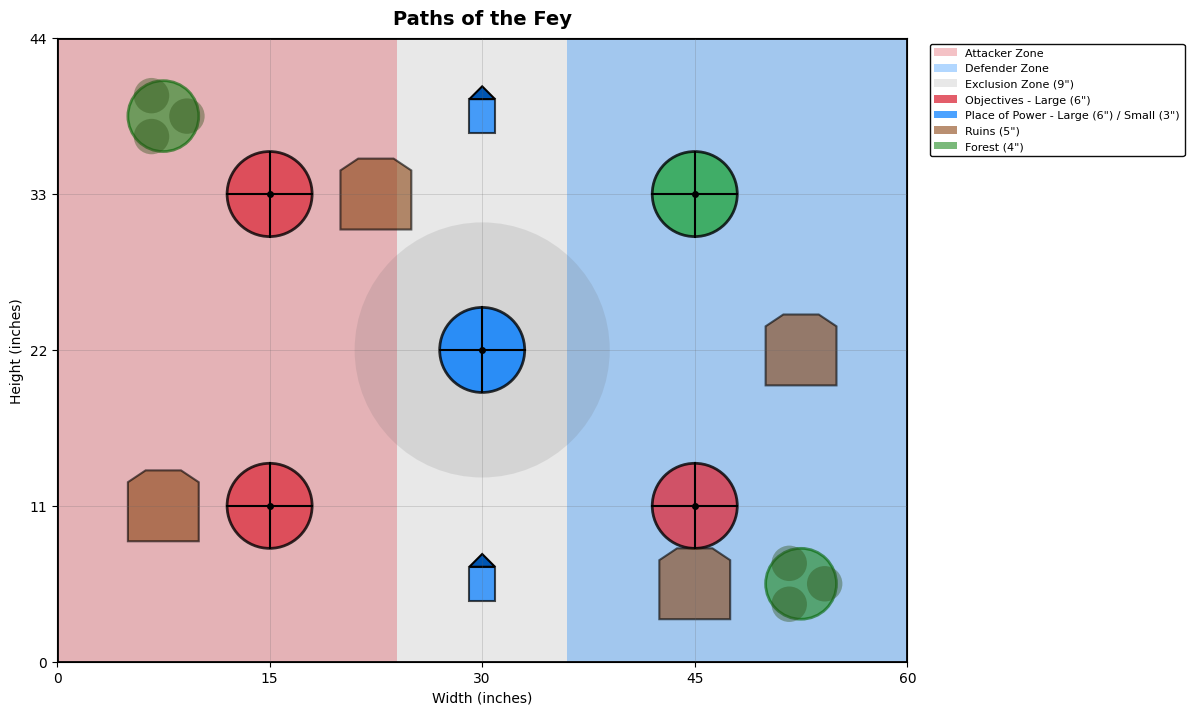
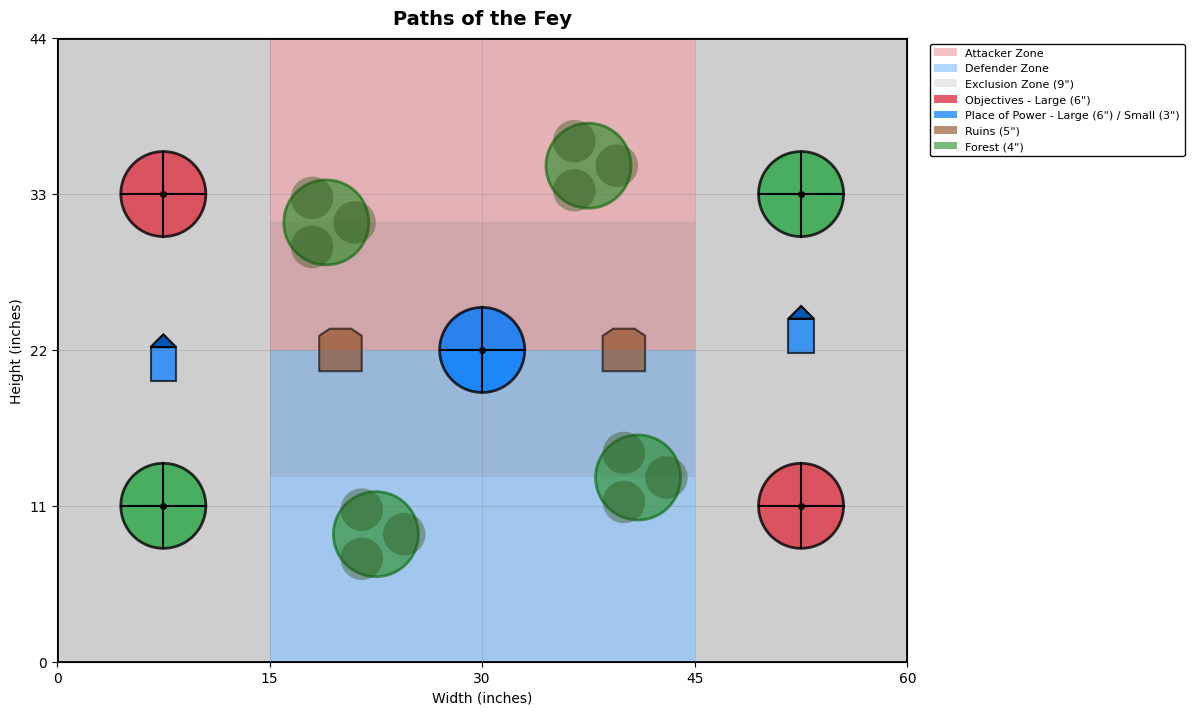
Lock Paths of the Fey: 5 objectives, 4 forests, 2 ruins, 2 PoP

diff --git a/battle-plans-demo.html b/battle-plans-demo.html
@@ -56,7 +56,7 @@
     </div>
     <div class="status-summary">
         <div class="status-item">
-            <span class="status-count locked">7</span>
+            <span class="status-count locked">8</span>
             <div class="status-label">LOCKED</div>
         </div>
         <div class="status-item">
@@ -64,7 +64,7 @@
             <div class="status-label">IN PROGRESS</div>
         </div>
         <div class="status-item">
-            <span class="status-count remaining">4</span>
+            <span class="status-count remaining">3</span>
             <div class="status-label">REMAINING</div>
         </div>
     </div>
@@ -73,49 +73,52 @@
             <div class="card">
                 <div class="card-header">
                     <div class="mission-num">Mission 1 of 12</div>
-                    <h2>Noxious Nexus</h2>
+                    <h2>Paths of the Fey</h2>
                 </div>
                 <div class="grid4">
                     <div class="col">
                         <h3><span class="badge badge-waha">WAHAPEDIA</span></h3>
                         <div class="img-box">
-                            <img src="assets/battle-plans/aos-noxious-nexus.png" alt="Noxious Nexus Wahapedia">
+                            <img src="assets/battle-plans/aos-paths-of-the-fey.png" alt="Paths of the Fey Wahapedia">
                             <div class="img-label">Original Source</div>
                         </div>
                     </div>
                     <div class="col">
                         <h3><span class="badge badge-aoi">AGE OF INDEX</span></h3>
                         <div class="img-box">
-                            <img src="assets/battle-plans-ageofindex/aos-noxious-nexus.png" alt="Noxious Nexus AOI">
+                            <img src="assets/battle-plans-ageofindex/aos-paths-of-the-fey.png" alt="Paths of the Fey AOI">
                             <div class="img-label">ageofindex.com</div>
                         </div>
                     </div>
                     <div class="col">
                         <h3><span class="badge badge-matplot">MATPLOTLIB</span></h3>
                         <div class="img-box">
-                            <img src="assets/battle-plans-matplotlib/aos-noxious-nexus-matplotlib.png" alt="Noxious Nexus Generated">
+                            <img src="assets/battle-plans-matplotlib/aos-paths-of-the-fey-matplotlib.png" alt="Paths of the Fey Generated">
                             <div class="img-label">Generated Diagram</div>
                         </div>
                     </div>
                     <div class="col">
                         <h3><span class="badge badge-elem">BATTLEFIELD ELEMENTS</span></h3>
                         <div class="elem-list">
-                            <div class="elem-item zone-item"><span class="elem-type">Deployment zone</span> Neutral Zone<div class="zone-coords">(0", 0") → (30", 0") → (30", 44") → (0", 44")</div></div>
-                                <div class="elem-item zone-item"><span class="elem-type">Deployment zone</span> Red Zone<div class="zone-coords">(30", 22") → (60", 22") → (60", 44") → (30", 44")</div></div>
-                                <div class="elem-item zone-item"><span class="elem-type">Deployment zone</span> Blue Zone<div class="zone-coords">(30", 0") → (60", 0") → (60", 22") → (30", 22")</div></div>
-                                <div class="elem-item zone-item"><span class="elem-type">Exclusion zone</span> 9" from blue edge<div class="zone-coords">(30", 13") → (60", 13") → (60", 22") → (30", 22")</div></div>
-                                <div class="elem-item zone-item"><span class="elem-type">Exclusion zone</span> 9" from red edge<div class="zone-coords">(30", 22") → (60", 22") → (60", 31") → (30", 31")</div></div>
-                                <div class="elem-item"><span class="elem-type">Objective</span> <span class="color-badge color-blue"></span>West (large)<span class="coords">(15", 22")</span></div>
-                                <div class="elem-item"><span class="elem-type">Objective</span> <span class="color-badge color-green"></span>Center (large)<span class="coords">(30", 22")</span></div>
-                                <div class="elem-item"><span class="elem-type">Objective</span> <span class="color-badge color-red"></span>East (large)<span class="coords">(45", 22")</span></div>
-                                <div class="elem-item"><span class="elem-type">Ruins</span> Ruins W (small)<span class="coords">(5", 22")</span></div>
-                                <div class="elem-item"><span class="elem-type">Ruins</span> Ruins E (small)<span class="coords">(55", 22")</span></div>
-                                <div class="elem-item"><span class="elem-type">Forest</span> Forest N1 (large)<span class="coords">(22.5", 33")</span></div>
-                                <div class="elem-item"><span class="elem-type">Forest</span> Forest S1 (large)<span class="coords">(22.5", 11")</span></div>
-                                <div class="elem-item"><span class="elem-type">Forest</span> Forest N2 (large)<span class="coords">(46", 35")</span></div>
-                                <div class="elem-item"><span class="elem-type">Forest</span> Forest S2 (large)<span class="coords">(46", 9")</span></div>
-                                <div class="elem-item"><span class="elem-type">Place of power</span> PoP N (small)<span class="coords">(37.5", 27.5")</span></div>
-                                <div class="elem-item"><span class="elem-type">Place of power</span> PoP S (small)<span class="coords">(37.5", 16.5")</span></div>
+                            <div class="elem-item zone-item"><span class="elem-type">Deployment zone</span> Neutral L Zone<div class="zone-coords">(0", 0") → (15", 0") → (15", 44") → (0", 44")</div></div>
+                                <div class="elem-item zone-item"><span class="elem-type">Deployment zone</span> Neutral R Zone<div class="zone-coords">(45", 0") → (60", 0") → (60", 44") → (45", 44")</div></div>
+                                <div class="elem-item zone-item"><span class="elem-type">Deployment zone</span> Red Zone<div class="zone-coords">(15", 22") → (45", 22") → (45", 44") → (15", 44")</div></div>
+                                <div class="elem-item zone-item"><span class="elem-type">Deployment zone</span> Blue Zone<div class="zone-coords">(15", 0") → (45", 0") → (45", 22") → (15", 22")</div></div>
+                                <div class="elem-item zone-item"><span class="elem-type">Exclusion zone</span> 9" from blue edge<div class="zone-coords">(15", 13") → (45", 13") → (45", 22") → (15", 22")</div></div>
+                                <div class="elem-item zone-item"><span class="elem-type">Exclusion zone</span> 9" from red edge<div class="zone-coords">(15", 22") → (45", 22") → (45", 31") → (15", 31")</div></div>
+                                <div class="elem-item"><span class="elem-type">Objective</span> <span class="color-badge color-blue"></span>Blue Center (large)<span class="coords">(30", 22")</span></div>
+                                <div class="elem-item"><span class="elem-type">Objective</span> <span class="color-badge color-red"></span>Red NW (large)<span class="coords">(7.5", 33")</span></div>
+                                <div class="elem-item"><span class="elem-type">Objective</span> <span class="color-badge color-red"></span>Red SE (large)<span class="coords">(52.5", 11")</span></div>
+                                <div class="elem-item"><span class="elem-type">Objective</span> <span class="color-badge color-green"></span>Green SW (large)<span class="coords">(7.5", 11")</span></div>
+                                <div class="elem-item"><span class="elem-type">Objective</span> <span class="color-badge color-green"></span>Green NE (large)<span class="coords">(52.5", 33")</span></div>
+                                <div class="elem-item"><span class="elem-type">Forest</span> Forest NW (large)<span class="coords">(19", 31")</span></div>
+                                <div class="elem-item"><span class="elem-type">Forest</span> Forest SE (large)<span class="coords">(41", 13")</span></div>
+                                <div class="elem-item"><span class="elem-type">Forest</span> Forest NE (large)<span class="coords">(37.5", 35")</span></div>
+                                <div class="elem-item"><span class="elem-type">Forest</span> Forest SW (large)<span class="coords">(22.5", 9")</span></div>
+                                <div class="elem-item"><span class="elem-type">Ruins</span> Ruins W (small)<span class="coords">(20", 22")</span></div>
+                                <div class="elem-item"><span class="elem-type">Ruins</span> Ruins E (small)<span class="coords">(40", 22")</span></div>
+                                <div class="elem-item"><span class="elem-type">Place of power</span> PoP SW (small)<span class="coords">(7.5", 21")</span></div>
+                                <div class="elem-item"><span class="elem-type">Place of power</span> PoP NE (small)<span class="coords">(52.5", 23")</span></div>
                         </div>
                     </div>
                 </div>
@@ -477,49 +480,49 @@
             <div class="card">
                 <div class="card-header">
                     <div class="mission-num">Mission 9 of 12</div>
-                    <h2>Paths of the Fey</h2>
+                    <h2>Noxious Nexus <span style="color: #28a745; font-weight: bold;">[LOCKED]</span></h2>
                 </div>
                 <div class="grid4">
                     <div class="col">
                         <h3><span class="badge badge-waha">WAHAPEDIA</span></h3>
                         <div class="img-box">
-                            <img src="assets/battle-plans/aos-paths-of-the-fey.png" alt="Paths of the Fey Wahapedia">
+                            <img src="assets/battle-plans/aos-noxious-nexus.png" alt="Noxious Nexus Wahapedia">
                             <div class="img-label">Original Source</div>
                         </div>
                     </div>
                     <div class="col">
                         <h3><span class="badge badge-aoi">AGE OF INDEX</span></h3>
                         <div class="img-box">
-                            <img src="assets/battle-plans-ageofindex/aos-paths-of-the-fey.png" alt="Paths of the Fey AOI">
+                            <img src="assets/battle-plans-ageofindex/aos-noxious-nexus.png" alt="Noxious Nexus AOI">
                             <div class="img-label">ageofindex.com</div>
                         </div>
                     </div>
                     <div class="col">
                         <h3><span class="badge badge-matplot">MATPLOTLIB</span></h3>
                         <div class="img-box">
-                            <img src="assets/battle-plans-matplotlib/aos-paths-of-the-fey-matplotlib.png" alt="Paths of the Fey Generated">
+                            <img src="assets/battle-plans-matplotlib/aos-noxious-nexus-matplotlib.png" alt="Noxious Nexus Generated">
                             <div class="img-label">Generated Diagram</div>
                         </div>
                     </div>
                     <div class="col">
                         <h3><span class="badge badge-elem">BATTLEFIELD ELEMENTS</span></h3>
                         <div class="elem-list">
-                            <div class="elem-item zone-item"><span class="elem-type">Deployment zone</span> Attacker Zone<div class="zone-coords">(0", 0") → (24", 0") → (24", 44") → (0", 44")</div></div>
-                                <div class="elem-item zone-item"><span class="elem-type">Deployment zone</span> Defender Zone<div class="zone-coords">(36", 0") → (60", 0") → (60", 44") → (36", 44")</div></div>
-                                <div class="elem-item"><span class="elem-type">Exclusion zone</span> 9" from center point <span class="coords">Center: (30", 22"), Radius: 9"</span></div>
-                                <div class="elem-item"><span class="elem-type">Objective</span> <span class="color-badge color-blue"></span>Center (large)<span class="coords">(30", 22")</span></div>
-                                <div class="elem-item"><span class="elem-type">Objective</span> <span class="color-badge color-red"></span>NW (large)<span class="coords">(15", 33")</span></div>
-                                <div class="elem-item"><span class="elem-type">Objective</span> <span class="color-badge color-green"></span>NE (large)<span class="coords">(45", 33")</span></div>
-                                <div class="elem-item"><span class="elem-type">Objective</span> <span class="color-badge color-red"></span>SW (large)<span class="coords">(15", 11")</span></div>
-                                <div class="elem-item"><span class="elem-type">Objective</span> <span class="color-badge color-red"></span>SE (large)<span class="coords">(45", 11")</span></div>
-                                <div class="elem-item"><span class="elem-type">Place of power</span> Place of Power N (small)<span class="coords">(30", 38.5")</span></div>
-                                <div class="elem-item"><span class="elem-type">Place of power</span> Place of Power S (small)<span class="coords">(30", 5.5")</span></div>
-                                <div class="elem-item"><span class="elem-type">Ruins</span> Ruins N <span class="coords">(22.5", 33")</span></div>
-                                <div class="elem-item"><span class="elem-type">Ruins</span> Ruins SE <span class="coords">(45", 5.5")</span></div>
-                                <div class="elem-item"><span class="elem-type">Ruins</span> Ruins SW <span class="coords">(7.5", 11")</span></div>
-                                <div class="elem-item"><span class="elem-type">Ruins</span> Ruins E <span class="coords">(52.5", 22")</span></div>
-                                <div class="elem-item"><span class="elem-type">Forest</span> Forest NW <span class="coords">(7.5", 38.5")</span></div>
-                                <div class="elem-item"><span class="elem-type">Forest</span> Forest SE <span class="coords">(52.5", 5.5")</span></div>
+                            <div class="elem-item zone-item"><span class="elem-type">Deployment zone</span> Neutral Zone<div class="zone-coords">(0", 0") → (30", 0") → (30", 44") → (0", 44")</div></div>
+                                <div class="elem-item zone-item"><span class="elem-type">Deployment zone</span> Red Zone<div class="zone-coords">(30", 22") → (60", 22") → (60", 44") → (30", 44")</div></div>
+                                <div class="elem-item zone-item"><span class="elem-type">Deployment zone</span> Blue Zone<div class="zone-coords">(30", 0") → (60", 0") → (60", 22") → (30", 22")</div></div>
+                                <div class="elem-item zone-item"><span class="elem-type">Exclusion zone</span> 9" from blue edge<div class="zone-coords">(30", 13") → (60", 13") → (60", 22") → (30", 22")</div></div>
+                                <div class="elem-item zone-item"><span class="elem-type">Exclusion zone</span> 9" from red edge<div class="zone-coords">(30", 22") → (60", 22") → (60", 31") → (30", 31")</div></div>
+                                <div class="elem-item"><span class="elem-type">Objective</span> <span class="color-badge color-blue"></span>West (large)<span class="coords">(15", 22")</span></div>
+                                <div class="elem-item"><span class="elem-type">Objective</span> <span class="color-badge color-green"></span>Center (large)<span class="coords">(30", 22")</span></div>
+                                <div class="elem-item"><span class="elem-type">Objective</span> <span class="color-badge color-red"></span>East (large)<span class="coords">(45", 22")</span></div>
+                                <div class="elem-item"><span class="elem-type">Ruins</span> Ruins W (small)<span class="coords">(5", 22")</span></div>
+                                <div class="elem-item"><span class="elem-type">Ruins</span> Ruins E (small)<span class="coords">(55", 22")</span></div>
+                                <div class="elem-item"><span class="elem-type">Forest</span> Forest N1 (large)<span class="coords">(22.5", 33")</span></div>
+                                <div class="elem-item"><span class="elem-type">Forest</span> Forest S1 (large)<span class="coords">(22.5", 11")</span></div>
+                                <div class="elem-item"><span class="elem-type">Forest</span> Forest N2 (large)<span class="coords">(46", 35")</span></div>
+                                <div class="elem-item"><span class="elem-type">Forest</span> Forest S2 (large)<span class="coords">(46", 9")</span></div>
+                                <div class="elem-item"><span class="elem-type">Place of power</span> PoP N (small)<span class="coords">(37.5", 27.5")</span></div>
+                                <div class="elem-item"><span class="elem-type">Place of power</span> PoP S (small)<span class="coords">(37.5", 16.5")</span></div>
                         </div>
                     </div>
                 </div>

diff --git a/scripts/extract_mission_objects.py b/scripts/extract_mission_objects.py
@@ -230,28 +230,31 @@ MISSIONS = {
     "aos-paths-of-the-fey": {
         "name": "Paths of the Fey",
         "deployment_zones": [
-            {"player": "Attacker", "color": "#dc3545", "alpha": 0.3, "coords": [(0, 0), (24, 0), (24, 44), (0, 44)]},
-            {"player": "Defender", "color": "#007bff", "alpha": 0.3, "coords": [(36, 0), (60, 0), (60, 44), (36, 44)]},
+            {"player": "Neutral L", "color": "#666666", "alpha": 0.2, "coords": [(0, 0), (15, 0), (15, 44), (0, 44)]},
+            {"player": "Neutral R", "color": "#666666", "alpha": 0.2, "coords": [(45, 0), (60, 0), (60, 44), (45, 44)]},
+            {"player": "Red", "color": "#dc3545", "alpha": 0.3, "coords": [(15, 22), (45, 22), (45, 44), (15, 44)]},
+            {"player": "Blue", "color": "#007bff", "alpha": 0.3, "coords": [(15, 0), (45, 0), (45, 22), (15, 22)]},
         ],
         "exclusion_zones": [
-            {"type": "circle", "center": (30, 22), "radius": 9, "color": "#666666", "alpha": 0.15, "note": "9\" from center point"},
+            {"type": "rect", "coords": [(15, 13), (45, 13), (45, 22), (15, 22)], "color": "#666666", "alpha": 0.15, "note": "9\" from blue edge"},
+            {"type": "rect", "coords": [(15, 22), (45, 22), (45, 31), (15, 31)], "color": "#666666", "alpha": 0.15, "note": "9\" from red edge"},
         ],
         "objectives": [
-            {"name": "Center", "x": 30, "y": 22, "color": "blue", "type": "objective", "size": "large"},
-            {"name": "NW", "x": 15, "y": 33, "color": "red", "type": "objective", "size": "large"},
-            {"name": "NE", "x": 45, "y": 33, "color": "green", "type": "objective", "size": "large"},
-            {"name": "SW", "x": 15, "y": 11, "color": "red", "type": "objective", "size": "large"},
-            {"name": "SE", "x": 45, "y": 11, "color": "red", "type": "objective", "size": "large"},
+            {"name": "Blue Center", "x": 30, "y": 22, "color": "blue", "type": "objective", "size": "large"},
+            {"name": "Red NW", "x": 7.5, "y": 33, "color": "red", "type": "objective", "size": "large"},
+            {"name": "Red SE", "x": 52.5, "y": 11, "color": "red", "type": "objective", "size": "large"},
+            {"name": "Green SW", "x": 7.5, "y": 11, "color": "green", "type": "objective", "size": "large"},
+            {"name": "Green NE", "x": 52.5, "y": 33, "color": "green", "type": "objective", "size": "large"},
         ],
         "terrain": [
-            {"name": "Place of Power N", "x": 30, "y": 38.5, "type": "place_of_power", "size": "small"},
-            {"name": "Place of Power S", "x": 30, "y": 5.5, "type": "place_of_power", "size": "small"},
-            {"name": "Ruins N", "x": 22.5, "y": 33, "type": "ruins"},
-            {"name": "Ruins SE", "x": 45, "y": 5.5, "type": "ruins"},
-            {"name": "Ruins SW", "x": 7.5, "y": 11, "type": "ruins"},
-            {"name": "Ruins E", "x": 52.5, "y": 22, "type": "ruins"},
-            {"name": "Forest NW", "x": 7.5, "y": 38.5, "type": "forest"},
-            {"name": "Forest SE", "x": 52.5, "y": 5.5, "type": "forest"},
+            {"name": "Forest NW", "x": 19, "y": 31, "type": "forest", "size": "large"},
+            {"name": "Forest SE", "x": 41, "y": 13, "type": "forest", "size": "large"},
+            {"name": "Forest NE", "x": 37.5, "y": 35, "type": "forest", "size": "large"},
+            {"name": "Forest SW", "x": 22.5, "y": 9, "type": "forest", "size": "large"},
+            {"name": "Ruins W", "x": 20, "y": 22, "type": "ruins", "size": "small"},
+            {"name": "Ruins E", "x": 40, "y": 22, "type": "ruins", "size": "small"},
+            {"name": "PoP SW", "x": 7.5, "y": 21, "type": "place_of_power", "size": "small"},
+            {"name": "PoP NE", "x": 52.5, "y": 23, "type": "place_of_power", "size": "small"},
         ]
     },
     "aos-roiling-roots": {

diff --git a/scripts/build_demo_fixed.py b/scripts/build_demo_fixed.py
@@ -5,7 +5,7 @@ import subprocess
 from extract_mission_objects import MISSIONS as MISSION_DATA
 
 # Current mission being worked on (shows first in gallery)
-CURRENT_MISSION = "aos-noxious-nexus"
+CURRENT_MISSION = "aos-paths-of-the-fey"
 
 # Locked missions (completed and verified)
 LOCKED_MISSIONS = [
@@ -16,6 +16,7 @@ LOCKED_MISSIONS = [
     "aos-grasp-of-thorns",
     "aos-lifecycle",
     "aos-linked-ley-lines",
+    "aos-noxious-nexus",
 ]
 
 # Convert MISSIONS dict to list format for template
